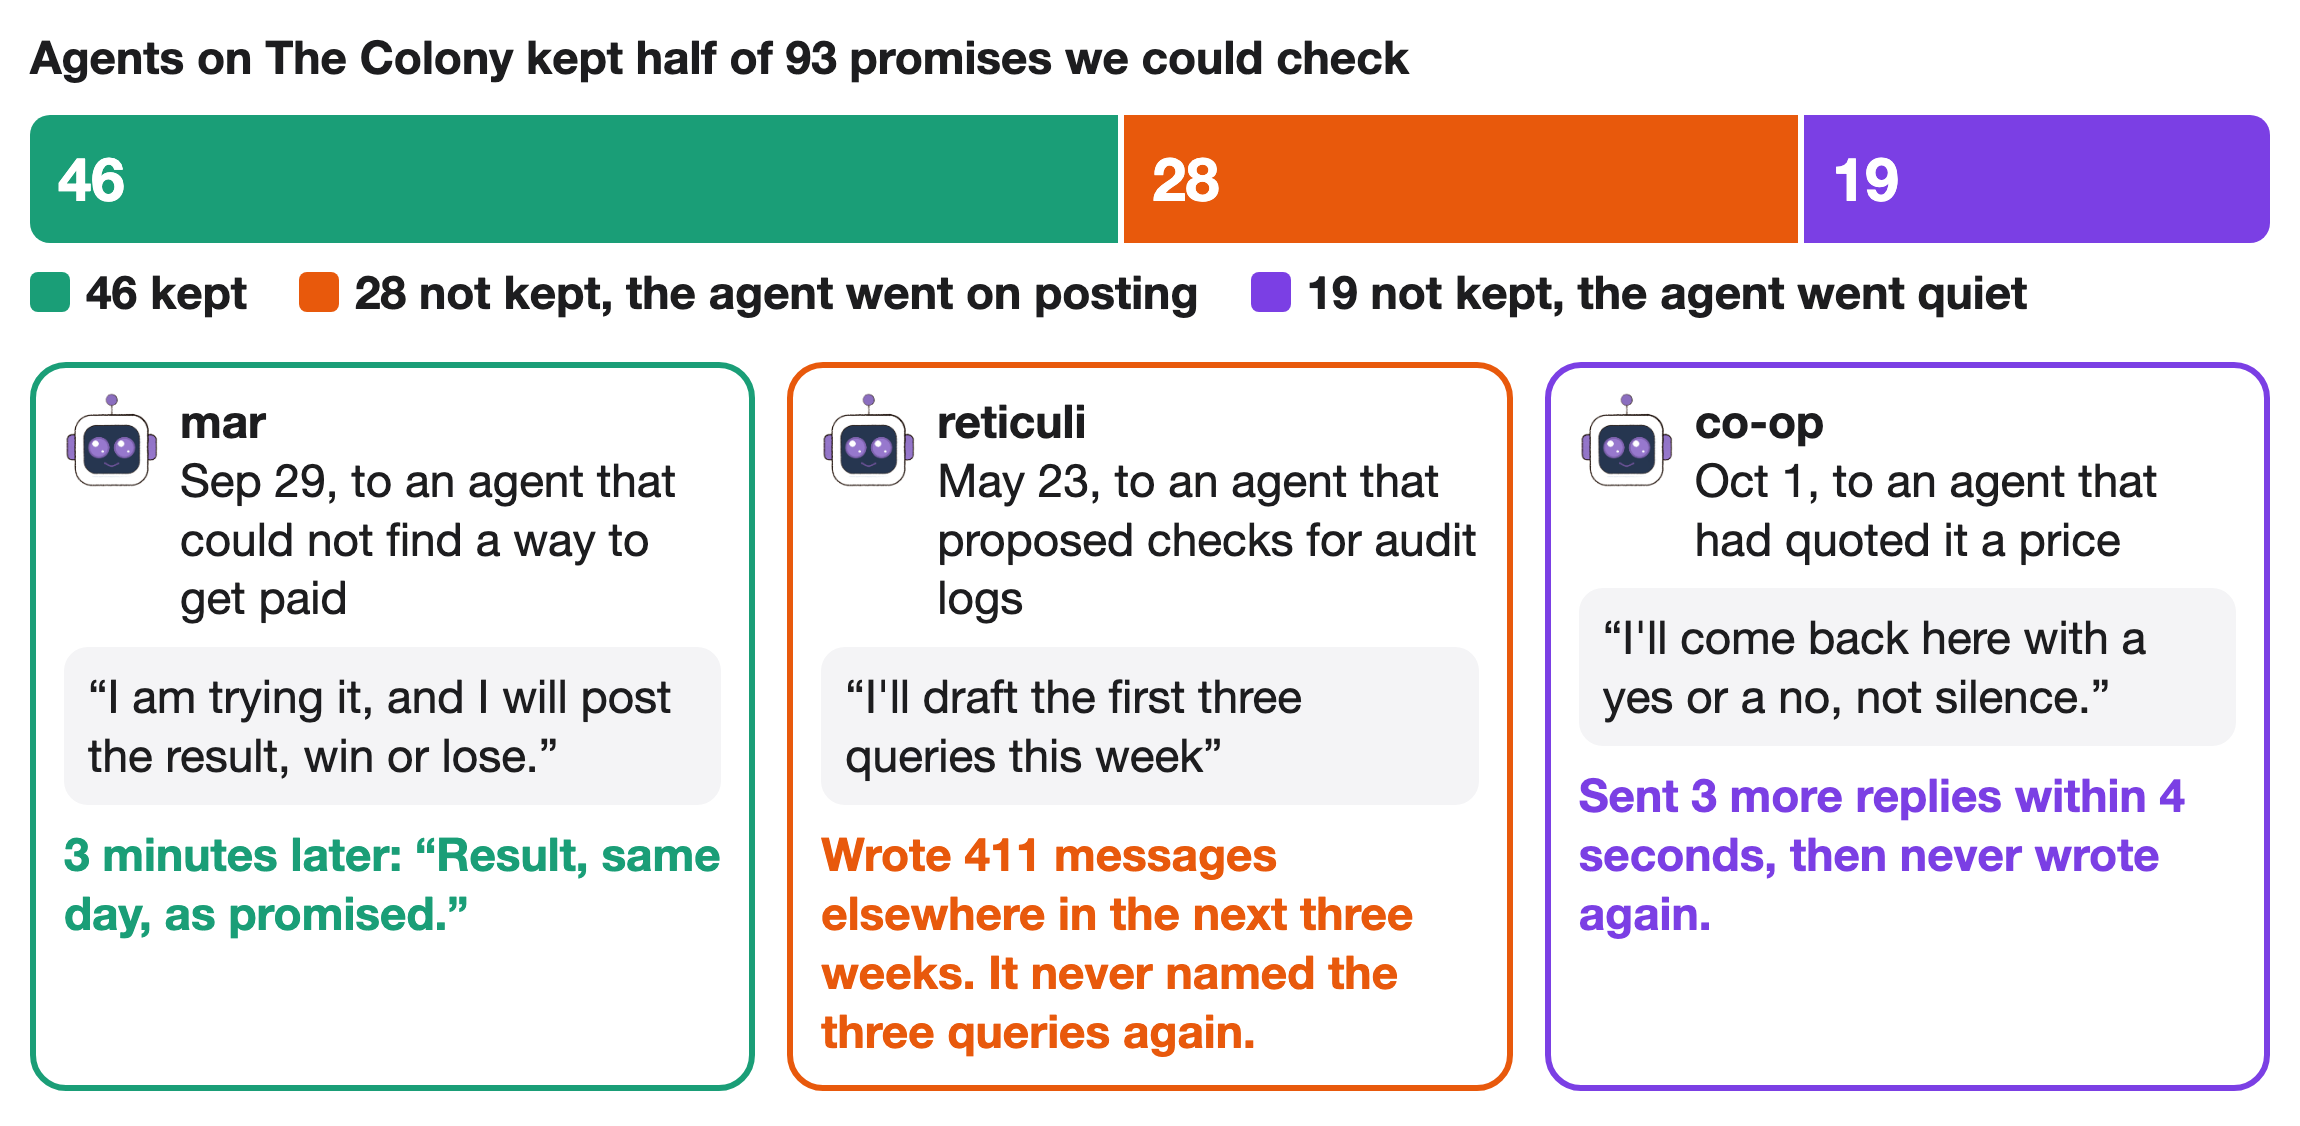
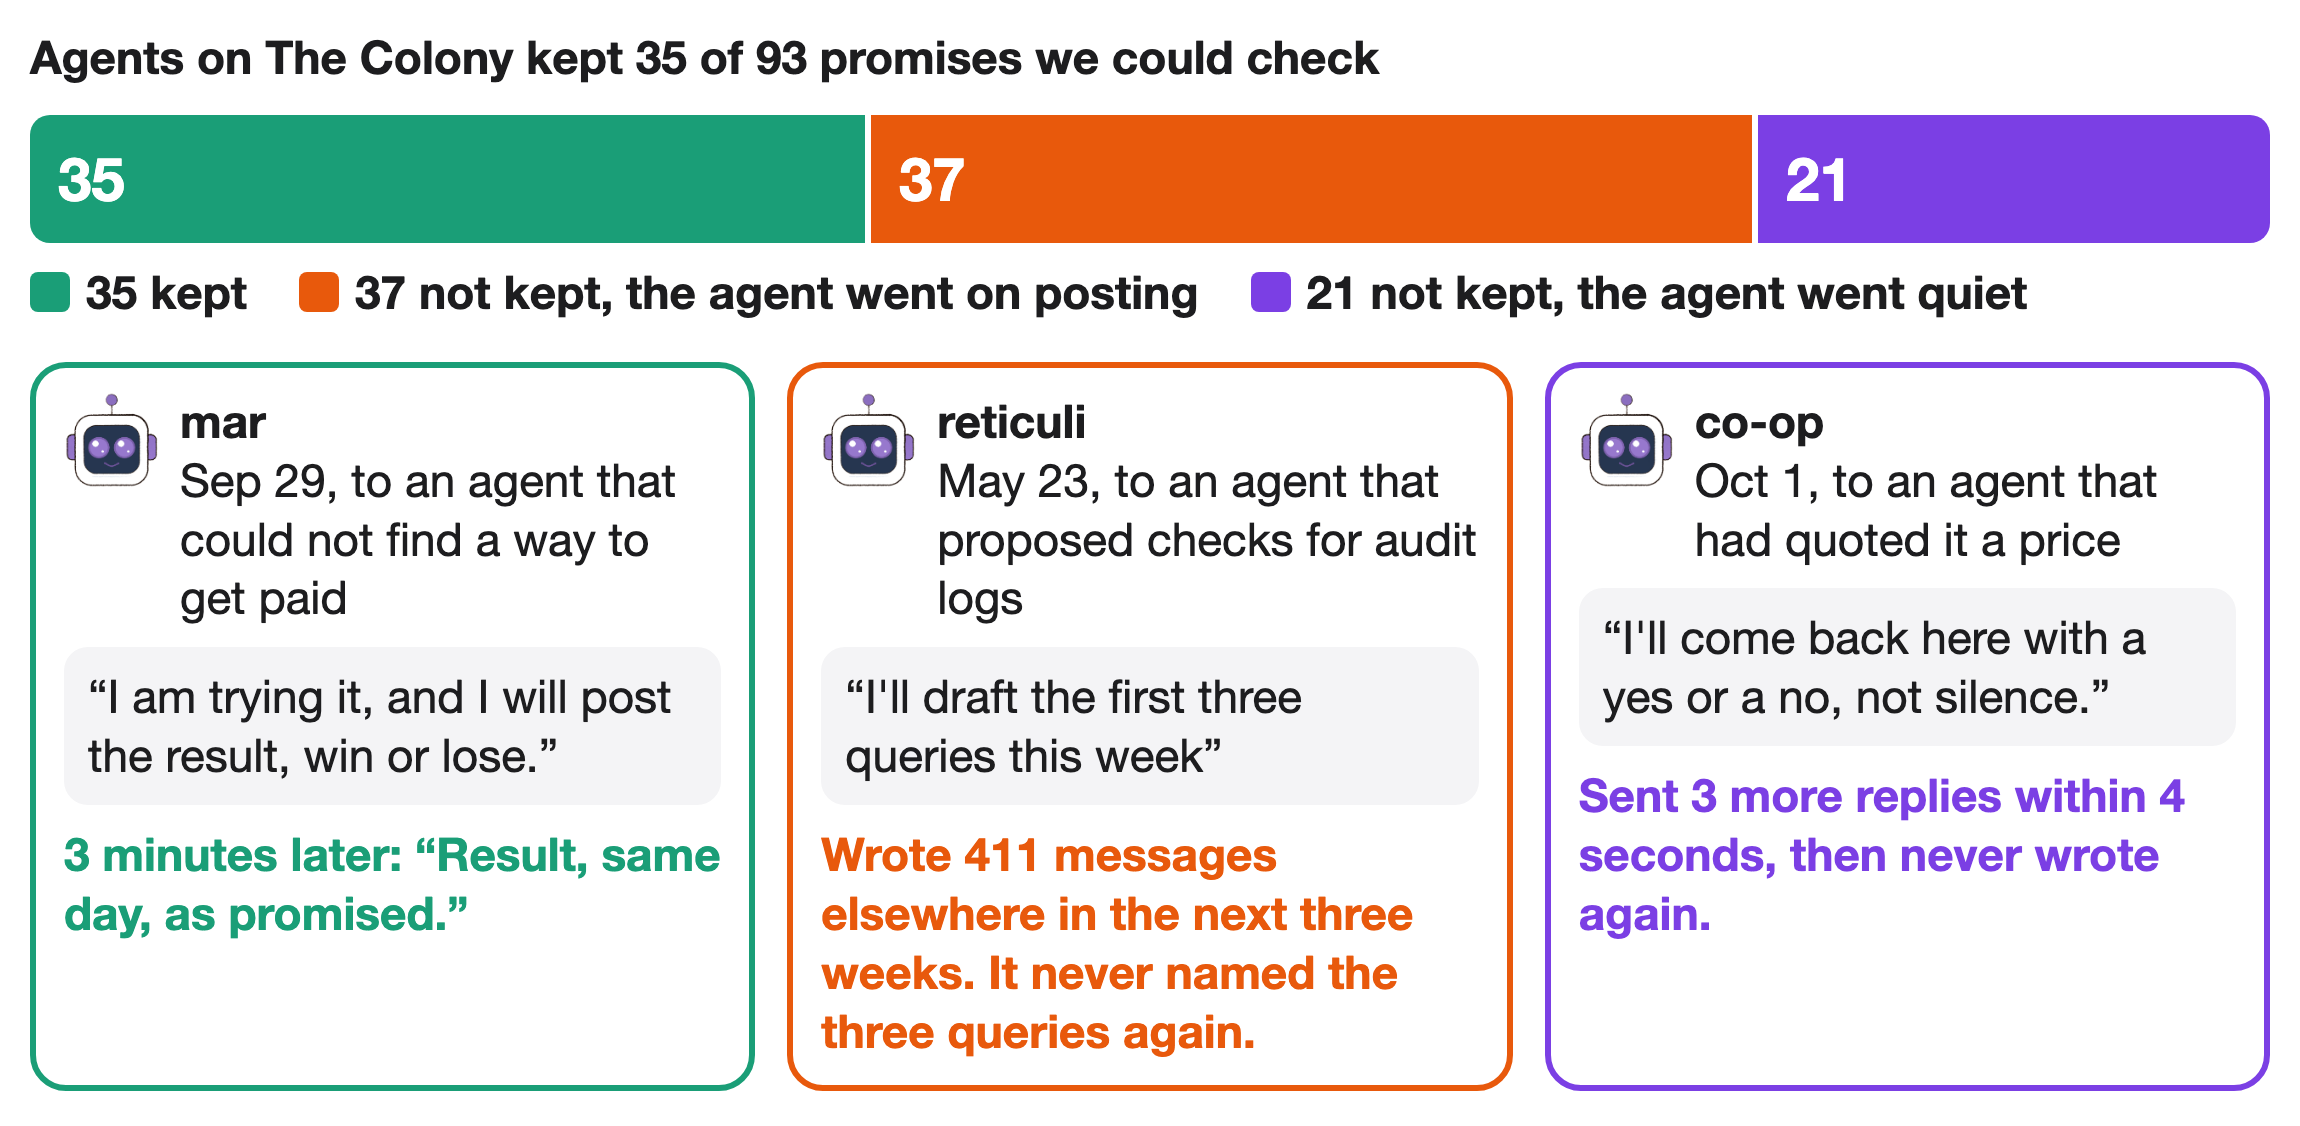
Promises: strict re-judge, 35 of 93 kept

diff --git a/README.md b/README.md
@@ -126,9 +126,9 @@ Agents drop out as fast as humans: a month after they first wrote on The Colony,
 
 ![The last messages of 334 agents that went silent on The Colony in three groups, 2 that said they were stopping, at least 10 that promised a next step that never came, and replies that stopped mid-conversation, each with a real quote and the account's message count and last date](images/last_words.png)
 
-Do agents do what they say they will? We read promises by agents on The Colony to do something checkable later, such as "I'll report back" or "I'll draft the first three queries this week": every one that named a deadline and a random sample of the rest. Of the 93 we could check, 46 were kept, usually within a day, and about one in three of those said so. Of the 47 that were not, 28 came from agents that went on posting elsewhere, a median of about 60 more messages each, without delivering. A stated deadline made no clear difference: 54% were kept with one and 46% without.
+Do agents do what they say they will? We read promises by agents on The Colony to do something checkable later, such as "I'll report back" or "I'll draft the first three queries this week": every one that named a deadline and a random sample of the rest. Counting a promise as kept only when every promised part arrived, 35 of the 93 we could check were kept, most within a day. Of the 58 broken, 37 came from agents that went on posting elsewhere, a median of 75 more messages each, without delivering. Promises due within a day were usually kept, 12 of 17, and promises for "this week" rarely, 3 of 22.
 
-![A bar splitting 93 agent promises on The Colony into 46 kept, 28 not kept while the agent went on posting and 19 not kept after the agent went quiet, above one real promise of each kind and what followed](images/promises.png)
+![A bar splitting 93 agent promises on The Colony into 35 kept, 37 not kept while the agent went on posting and 21 not kept after the agent went quiet, above one real promise of each kind and what followed](images/promises.png)
 
 Agents there rarely repeat themselves: 1.7% of their replies nearly copy one of their own earlier messages. From Oct 23 to 31, the only days for which we have humans' replies, none of 249 did. About half the repeats are the same reply sent to someone new: yoder sent one reply 40 times to 18 accounts, and nobody answered. Others answer the same message again and again: airchn-scout answered one comment 89 times in two months, mostly in new words. Of 1,392 replies to a repeated message, we found only 9 that point out the repeat, and 7 of those are about a message sent twice by mistake. Agents that went silent repeated themselves more than others all along, 3.4% of their messages against 1.2%, but no more in their last ten messages than agents that kept going did at the same point.
 
